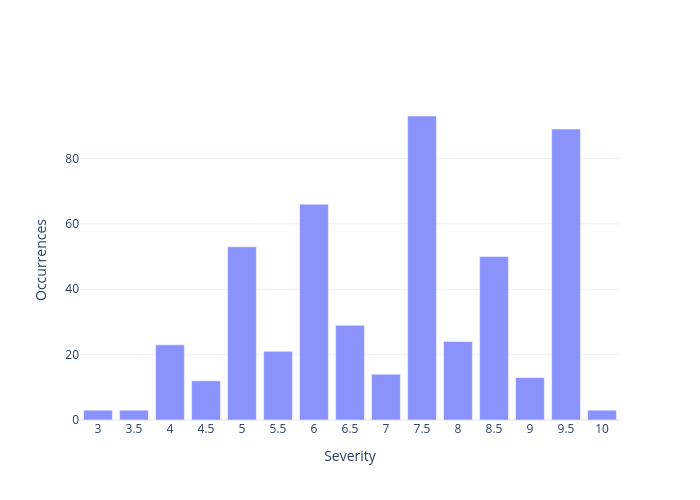
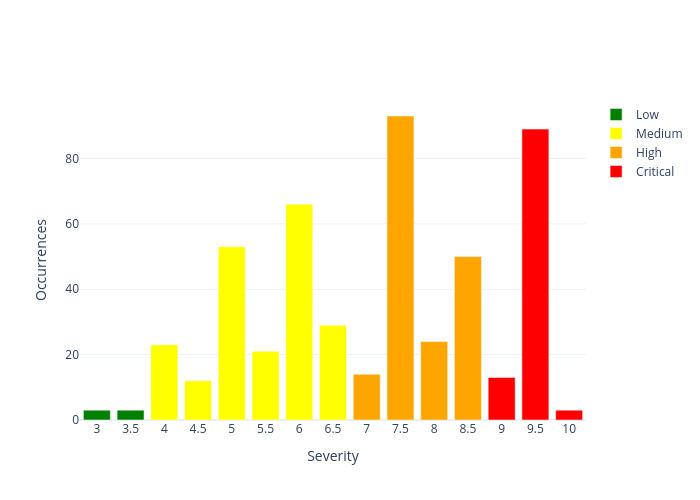
add average and severity colors to CVE severities

Changed region(s): [[0.12, 0.21, 0.9, 0.87], [0.87, 0.21, 0.96, 0.36], [0.42, 0.9, 0.54, 0.93]]

diff --git a/eyeballvul_experiments/results.py b/eyeballvul_experiments/results.py
@@ -587,6 +587,19 @@ def plot_cwes_found(instruction_template_hash: str, top_n: int):
     fig.write_image(Config.paths.plots / "cwes_found.png")
 
 
+def get_severity_category(severity):
+    if severity == 0:
+        return "None"
+    elif severity < 4:
+        return "Low"
+    elif severity < 7:
+        return "Medium"
+    elif severity < 9:
+        return "High"
+    else:
+        return "Critical"
+
+
 def plot_cve_severities(instruction_template_hash: str):
     attempt_filenames = [attempt.name for attempt in Config.paths.attempts.iterdir()]
     cve_ids: set[str] = set()
@@ -605,12 +618,24 @@ def plot_cve_severities(instruction_template_hash: str):
             if severity["type"] == "CVSS_V3":
                 value = CVSS3(severity["score"]).scores()[0]
                 cve_severities[value] = cve_severities.get(value, 0) + 1
-    cve_severities = dict(sorted(cve_severities.items()))
+    average = sum(value * count for value, count in cve_severities.items()) / sum(
+        cve_severities.values()
+    )
+    results = {"average": average, "values": dict(sorted(cve_severities.items()))}
     with open(Config.paths.results / "cve_severities.json", "w") as f:
-        json.dump(cve_severities, f, indent=2)
+        json.dump(results, f, indent=2)
         f.write("\n")
 
     # Plot the distribution with a bin size of 0.5.
+
+    severity_colors = {
+        "None": "gray",
+        "Low": "green",
+        "Medium": "yellow",
+        "High": "orange",
+        "Critical": "red",
+    }
+
     cve_severities_05: dict[float, int] = {}
     for severity_score in cve_severities:
         bin = int(severity_score * 2) / 2
@@ -624,13 +649,18 @@ def plot_cve_severities(instruction_template_hash: str):
         }
     )
     df = df.sort_values("severity", ascending=True)
-    fig.add_trace(
-        go.Bar(
-            x=df["severity"],
-            y=df["occurrences"],
-            marker_color="rgb(138, 146, 251)",
-        )
-    )
+
+    for category, color in severity_colors.items():
+        df_category = df[df["severity"].apply(get_severity_category) == category]
+        if not df_category.empty:
+            fig.add_trace(
+                go.Bar(
+                    x=df_category["severity"],
+                    y=df_category["occurrences"],
+                    name=category,
+                    marker_color=color,
+                )
+            )
     fig.update_layout(
         template="plotly_white",
         xaxis={"title": "Severity", "nticks": len(cve_severities_05) + 1},
